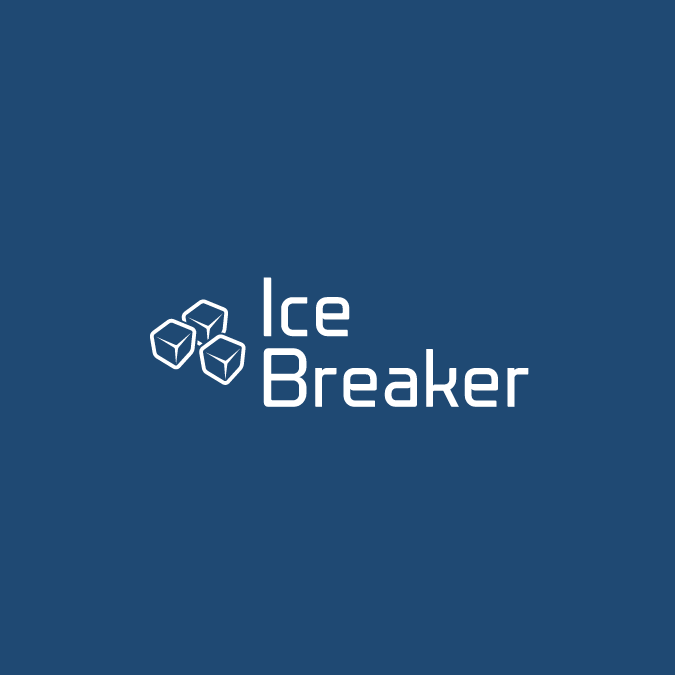
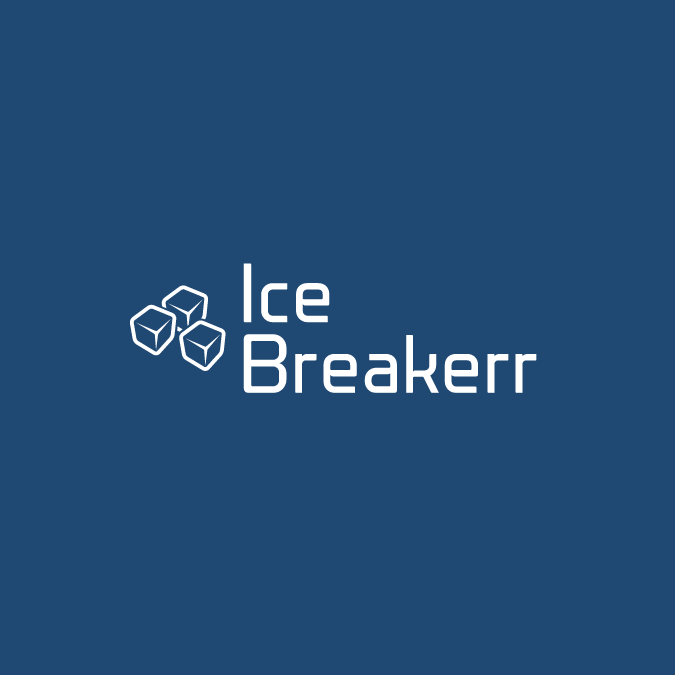
Changed name of to Ice Breakerr.

Changed region(s): [[0.1867, 0.3733, 0.8089, 0.6222]]

diff --git a/modules/firebaseAPI.js b/modules/firebaseAPI.js
@@ -29,7 +29,7 @@ export async function getLocationAsync(key) {
     return true
   } else {
      Alert.alert('Please Enable Location Services.', 
-      'Go to Settings -> Ice Breaker -> Location then select "While Using the App."');
+      'Go to Settings -> Ice Breakerr -> Location then select "While Using the App."');
 
     console.log('Location permission not granted');
 

diff --git a/screens/IndexScreen.js b/screens/IndexScreen.js
@@ -13,7 +13,7 @@ const {height, width} = Dimensions.get('window');
 
 export default class IndexScreen extends React.Component {
   static navigationOptions = {
-    title: 'Ice Breaker',
+    title: 'Ice Breakerr',
     headerLeft: null,
     gesturesEnabled: false,
   };

diff --git a/screens/BioScreen.js b/screens/BioScreen.js
@@ -10,7 +10,7 @@ const {height, width} = Dimensions.get('window');
 
 export default class BioScreen extends React.Component {
   static navigationOptions = {
-    title: 'Ice Breaker',
+    title: 'Ice Breakerr',
     headerLeft: null,
     gesturesEnabled: false,
   };

diff --git a/navigation/LoginScreen.js b/navigation/LoginScreen.js
@@ -22,7 +22,7 @@ const size = width*1.45
 
 export default class Login extends React.Component {
 	static navigationOptions = {
-	    title: 'Ice Breaker',
+	    title: 'Ice Breakerr',
 	    headerLeft: null,
 	    gesturesEnabled: false,
 	  };
